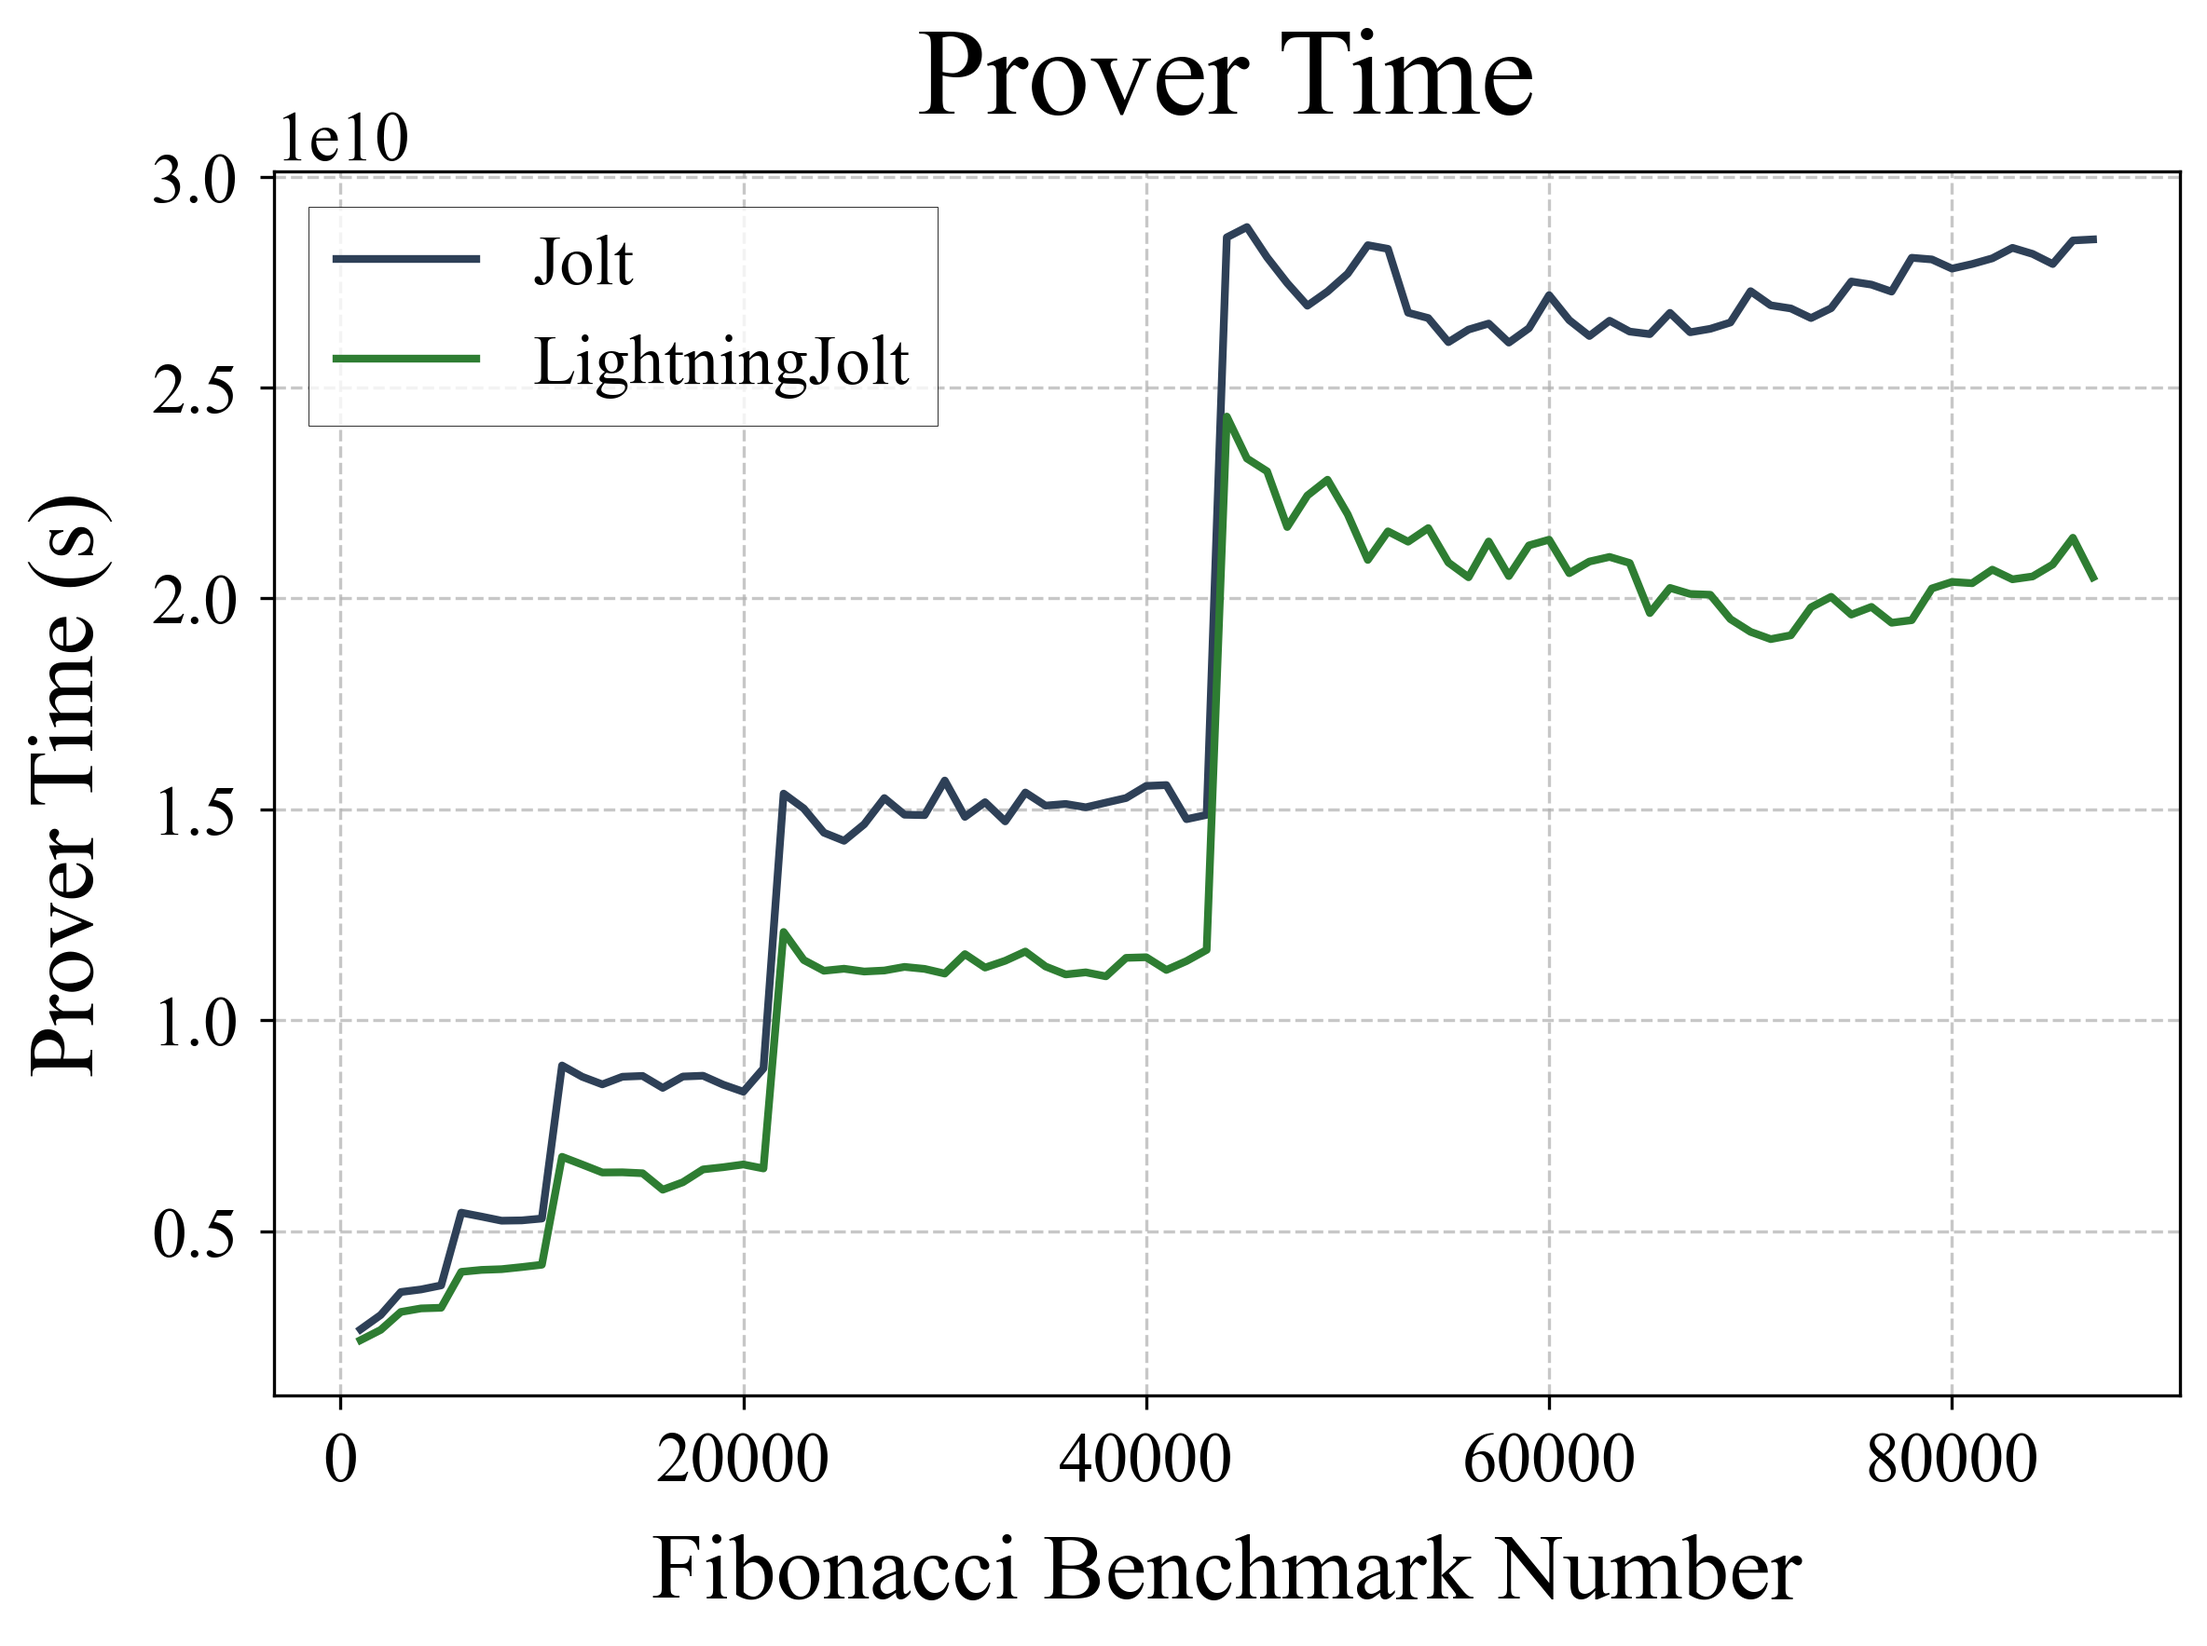
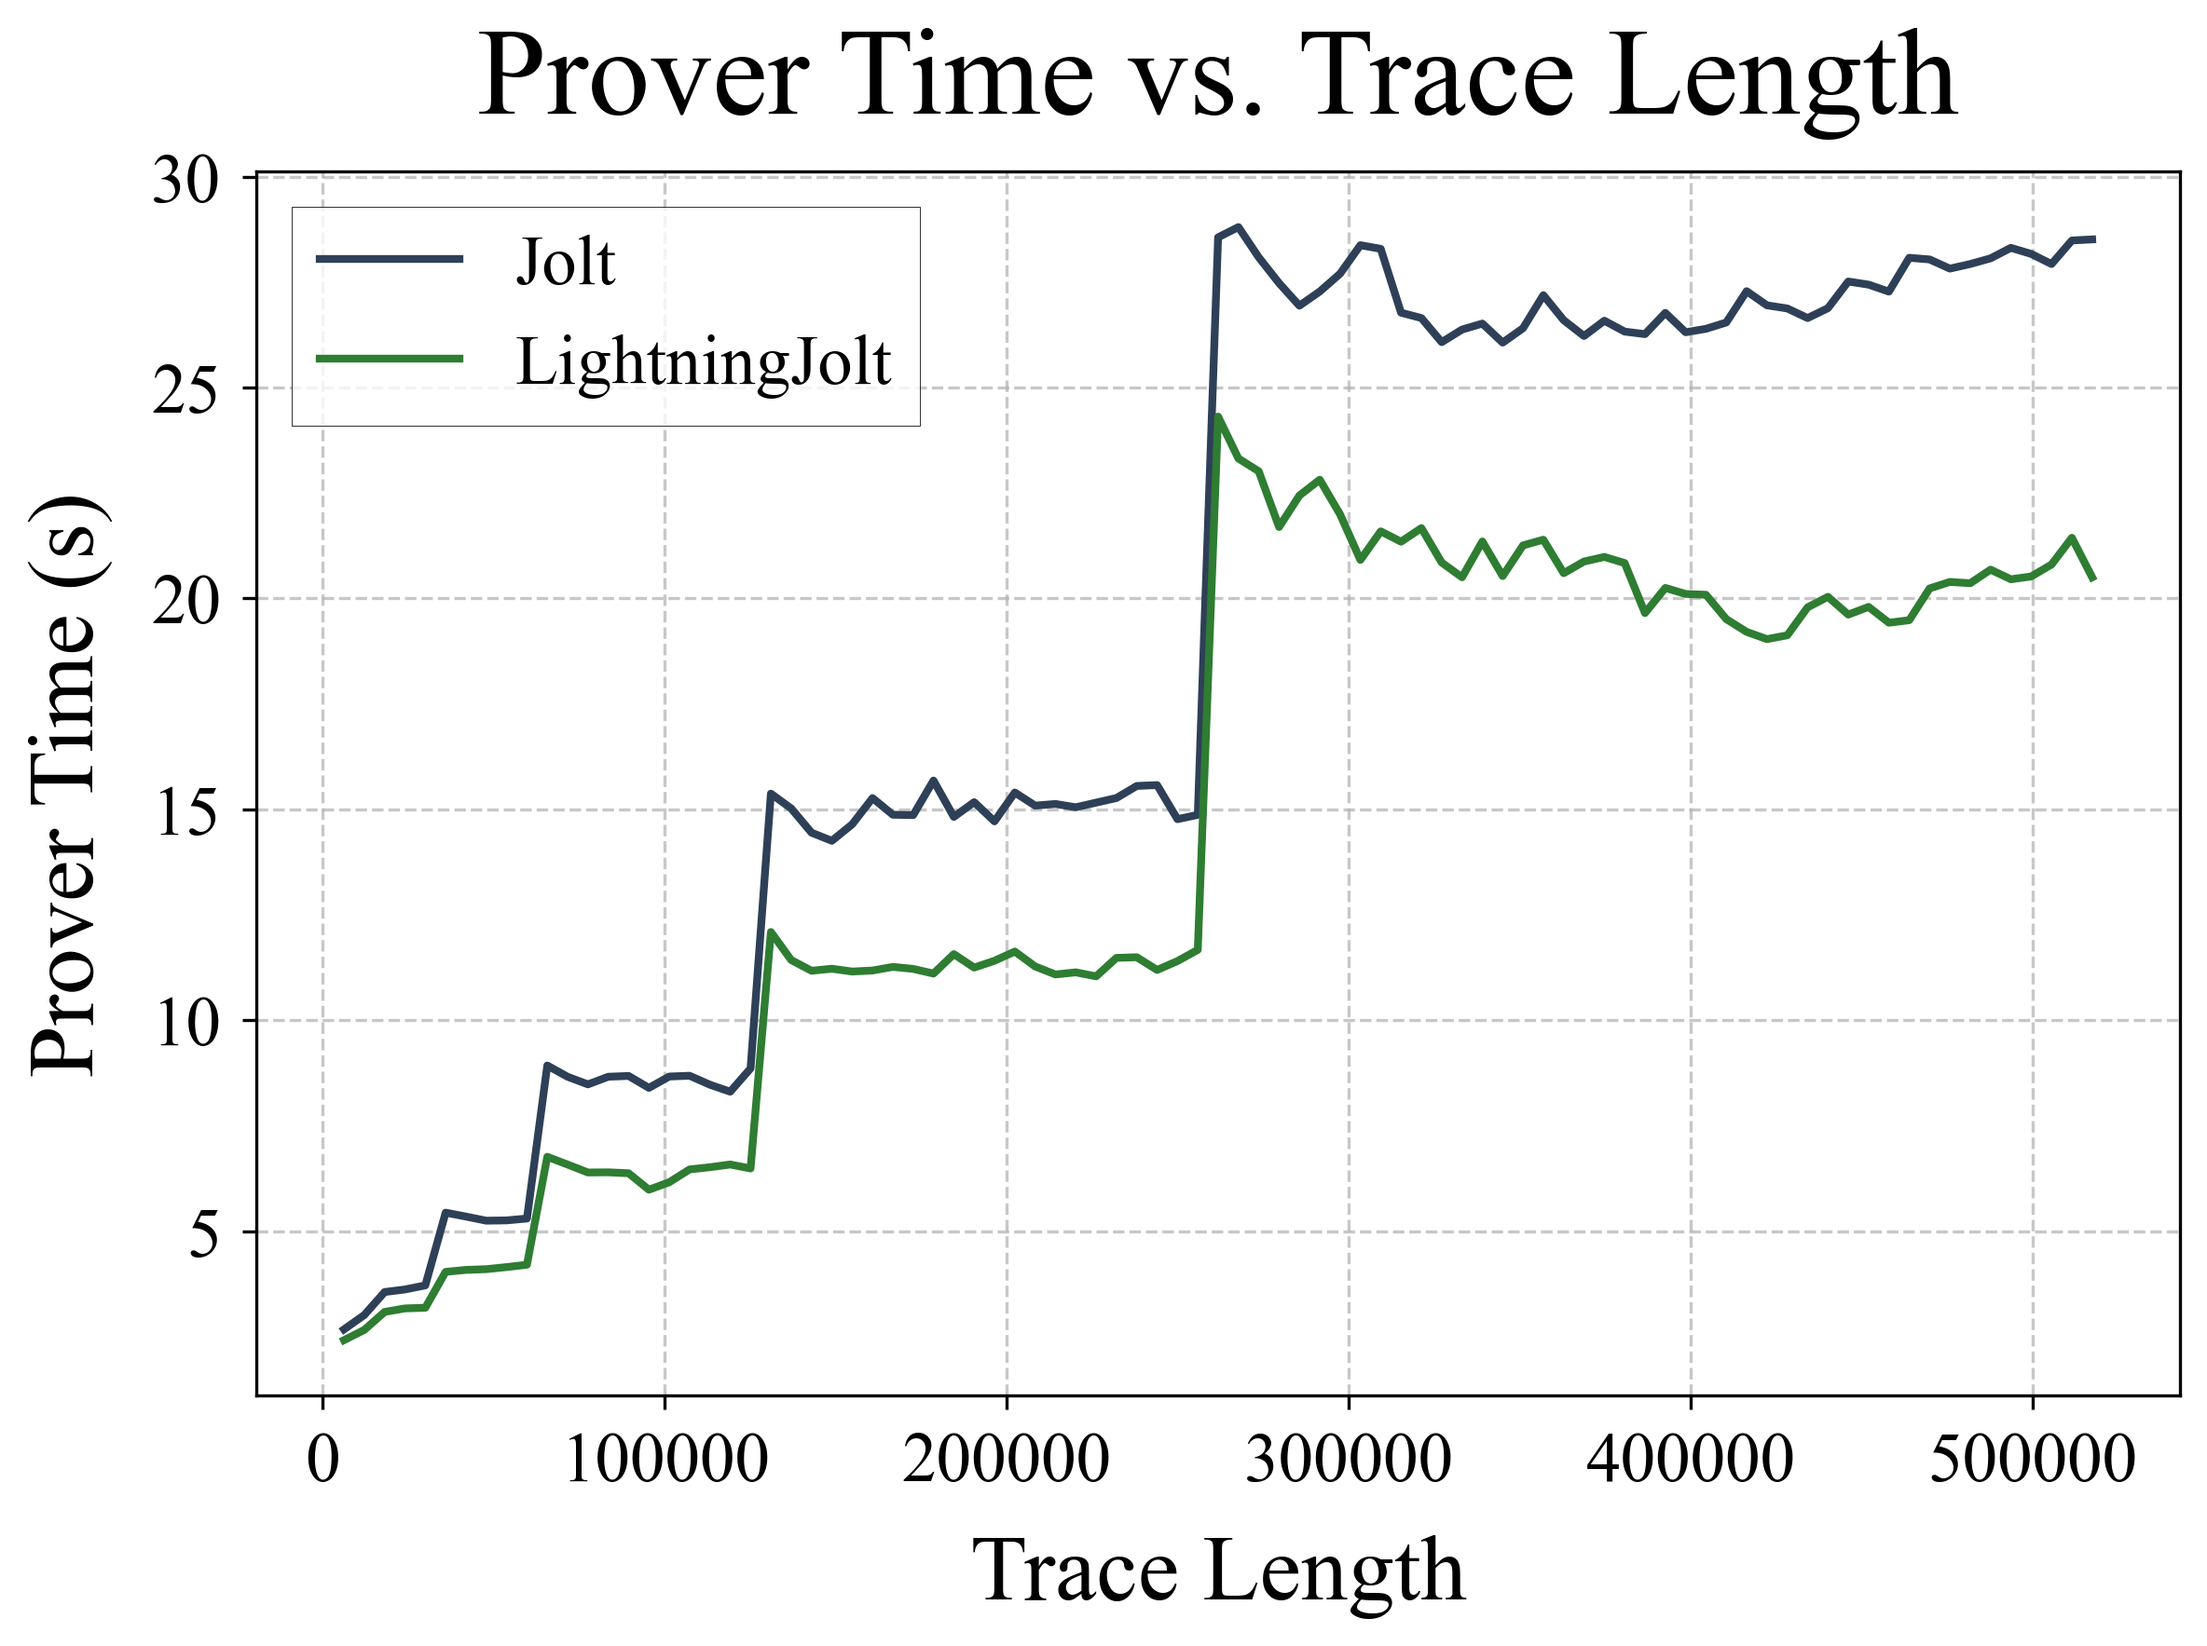
fix: trace length x-axis labelling for proof size and proof time

diff --git a/plot/prove-large/plotter.py b/plot/prove-large/plotter.py
@@ -2,6 +2,7 @@ import matplotlib.pyplot as plt
 import os
 import matplotlib as mpl
 from ast import literal_eval
+import matplotlib.ticker as ticker
 
 # Set style for research paper
 plt.style.use('seaborn-v0_8-paper')
@@ -27,23 +28,30 @@ with open(r1cs_file, 'r') as f:
     r1cs_data = literal_eval(f.read())
 
 fig, ax = plt.subplots(figsize=(8, 6))
-omc_x = [point[0] for point in omc_data]
-omc_y = [point[1] * 5/4.7 for point in omc_data]
-r1cs_x = [point[0] for point in r1cs_data] 
-r1cs_y = [point[1] for point in r1cs_data]
+omc_x = [point[0] * 5.944 + 220.6 for point in omc_data]
+omc_y = [point[1] * 5/4.7 / 1000 / 1000 / 1000 for point in omc_data]
+r1cs_x = [point[0] * 5.944 + 220.6 for point in r1cs_data] 
+r1cs_y = [point[1] / 1000 / 1000 / 1000 for point in r1cs_data]
 
 ax.plot(omc_x, omc_y, color='#2E4057', linewidth=2, label='Jolt')
 ax.plot(r1cs_x, r1cs_y, color='#2E7D32', linewidth=2, label='LightningJolt')
 
-ax.set_xlabel('Fibonacci Benchmark Number', fontsize=24, labelpad=10)
+# Format x-axis to use K notation
+def format_func(value, tick_number):
+    if value >= 1000:
+        return f'{value/1000:.0f}K'
+    return f'{value:.0f}'
+
+ax.xaxis.set_major_formatter(ticker.FuncFormatter(format_func))
+
+ax.set_xlabel('Trace Length', fontsize=24, labelpad=10)
 ax.set_ylabel('Prover Time (s)', fontsize=24, labelpad=10)
 
-title = 'Prover Time'   
+title = 'Prover Time vs. Trace Length'   
         
 ax.set_title(f'{title}', fontsize=32, pad=15)
 ax.legend(frameon=True, fancybox=False, edgecolor='black', fontsize=18)
 ax.grid(True, linestyle='--', alpha=0.7)
-
 
 plt.tight_layout()
 

diff --git a/plot/size/plotter.py b/plot/size/plotter.py
@@ -27,18 +27,18 @@ with open(r1cs_file, 'r') as f:
     r1cs_data = literal_eval(f.read())
 
 fig, ax = plt.subplots(figsize=(8, 6))
-omc_x = [point[0] for point in omc_data]
+omc_x = [point[0] * 5.944 + 220.6 for point in omc_data]
 omc_y = [point[1] * 1024 for point in omc_data]
-r1cs_x = [point[0] for point in r1cs_data] 
+r1cs_x = [point[0] * 5.944 + 220.6 for point in r1cs_data] 
 r1cs_y = [point[1] * 1024 for point in r1cs_data]
 
 ax.plot(omc_x, omc_y, color='#2E4057', linewidth=2, label='Jolt')
 ax.plot(r1cs_x, r1cs_y, color='#2E7D32', linewidth=2, label='LightningJolt')
 
-ax.set_xlabel('Fibonacci Benchmark Number', fontsize=24, labelpad=10)
+ax.set_xlabel('Trace Length', fontsize=24, labelpad=10)
 ax.set_ylabel('Proof Size (kb)', fontsize=24, labelpad=10)
 
-title = 'Proof Size'
+title = 'Proof Size vs. Trace Length'
     
 ax.set_title(f'{title}', fontsize=32, pad=15)
 ax.legend(frameon=True, fancybox=False, edgecolor='black', fontsize=18)

diff --git a/plot/constraints-uniform/plotter.py b/plot/constraints-uniform/plotter.py
@@ -3,6 +3,7 @@ import matplotlib as mpl
 import ast
 import os
 import numpy as np
+import matplotlib.ticker as ticker
 
 # Set style for research paper
 plt.style.use('seaborn-v0_8-paper')
@@ -50,6 +51,14 @@ for (file_name, data), color, marker in zip(data_series.items(), colors, markers
     ax.plot(x_smooth, y_smooth, color=color, linewidth=2, label=label, linestyle='--')
     ax.scatter(x_vals, y_vals, color=color, marker=marker, s=64, 
               edgecolor='black', linewidth=1.5, zorder=3)
+
+# Format x-axis to use K notation
+def format_func(value, tick_number):
+    if value >= 1000:
+        return f'{value/1000:.0f}K'
+    return f'{value:.0f}'
+
+ax.xaxis.set_major_formatter(ticker.FuncFormatter(format_func))
 
 # Set labels and title
 ax.set_xlabel('Added Uniform Constraints', fontsize=24, labelpad=10)

diff --git a/plot/constraints-nonuniform/plotter.py b/plot/constraints-nonuniform/plotter.py
@@ -3,6 +3,7 @@ import matplotlib as mpl
 import ast
 import os
 import numpy as np
+import matplotlib.ticker as ticker
 
 # Set style for research paper
 plt.style.use('seaborn-v0_8-paper')
@@ -42,6 +43,14 @@ for (file_name, data), color, marker in zip(data_series.items(), colors, markers
     ax.plot(x_vals, y_vals, color=color, linewidth=2, label=label)
     ax.scatter(x_vals, y_vals, color=color, marker=marker, s=64, 
               edgecolor='black', linewidth=1.5, zorder=3)
+
+# Format x-axis to use K notation
+def format_func(value, tick_number):
+    if value >= 1000:
+        return f'{value/1000:.0f}K'
+    return f'{value:.0f}'
+
+ax.xaxis.set_major_formatter(ticker.FuncFormatter(format_func))
 
 # Set labels and title
 ax.set_xlabel('Added Non-Uniform Constraints', fontsize=24, labelpad=10)
